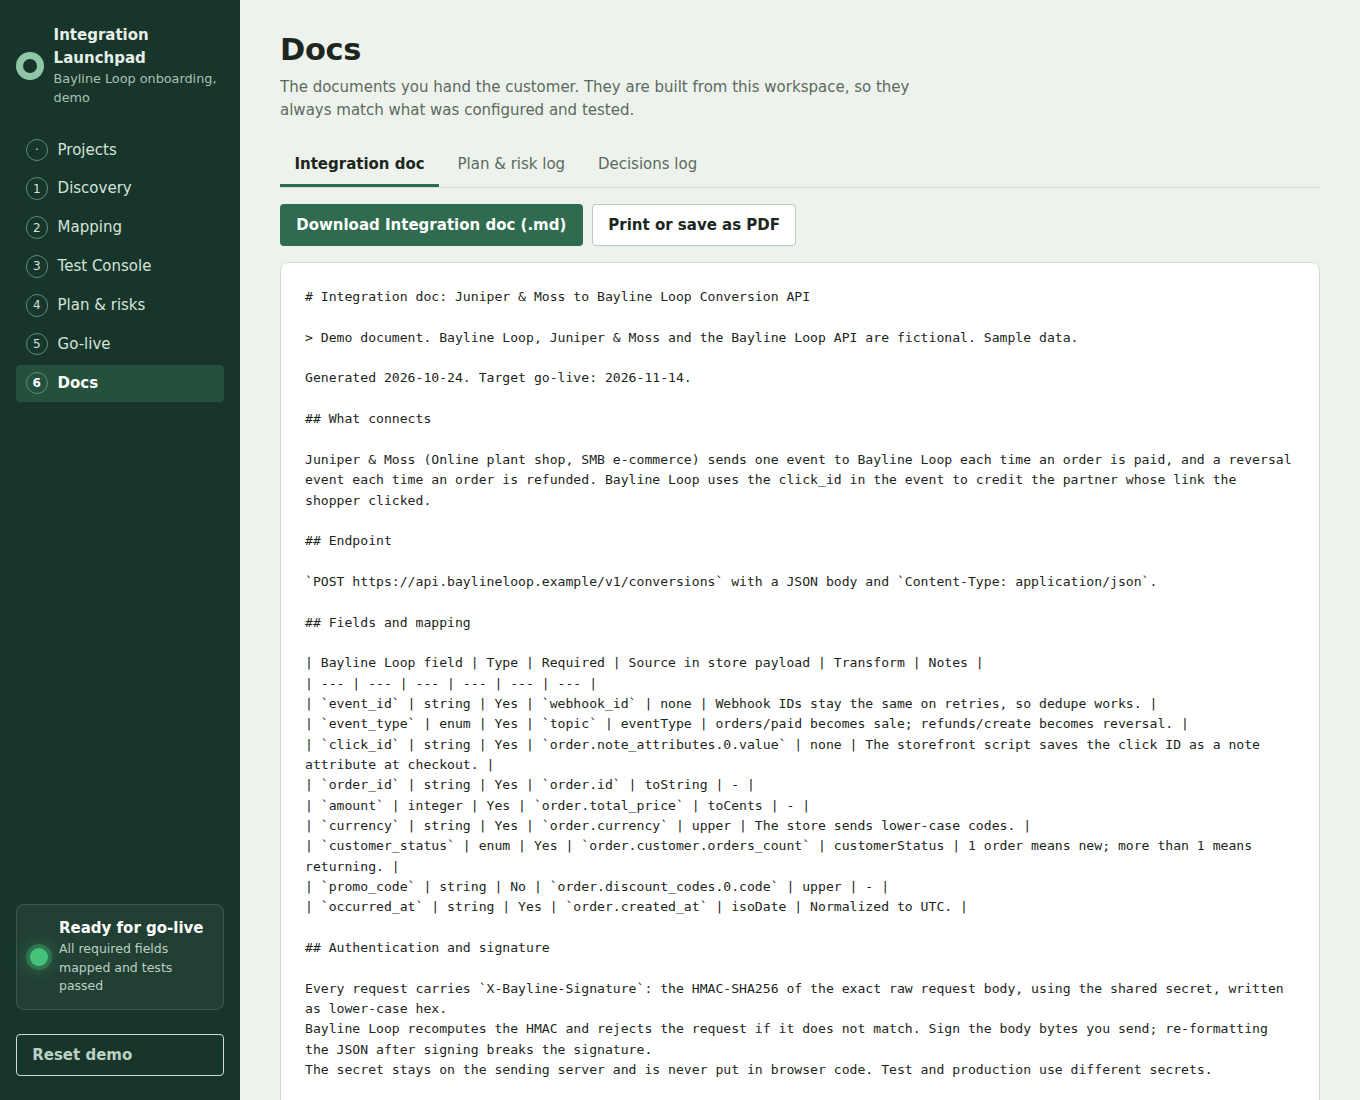
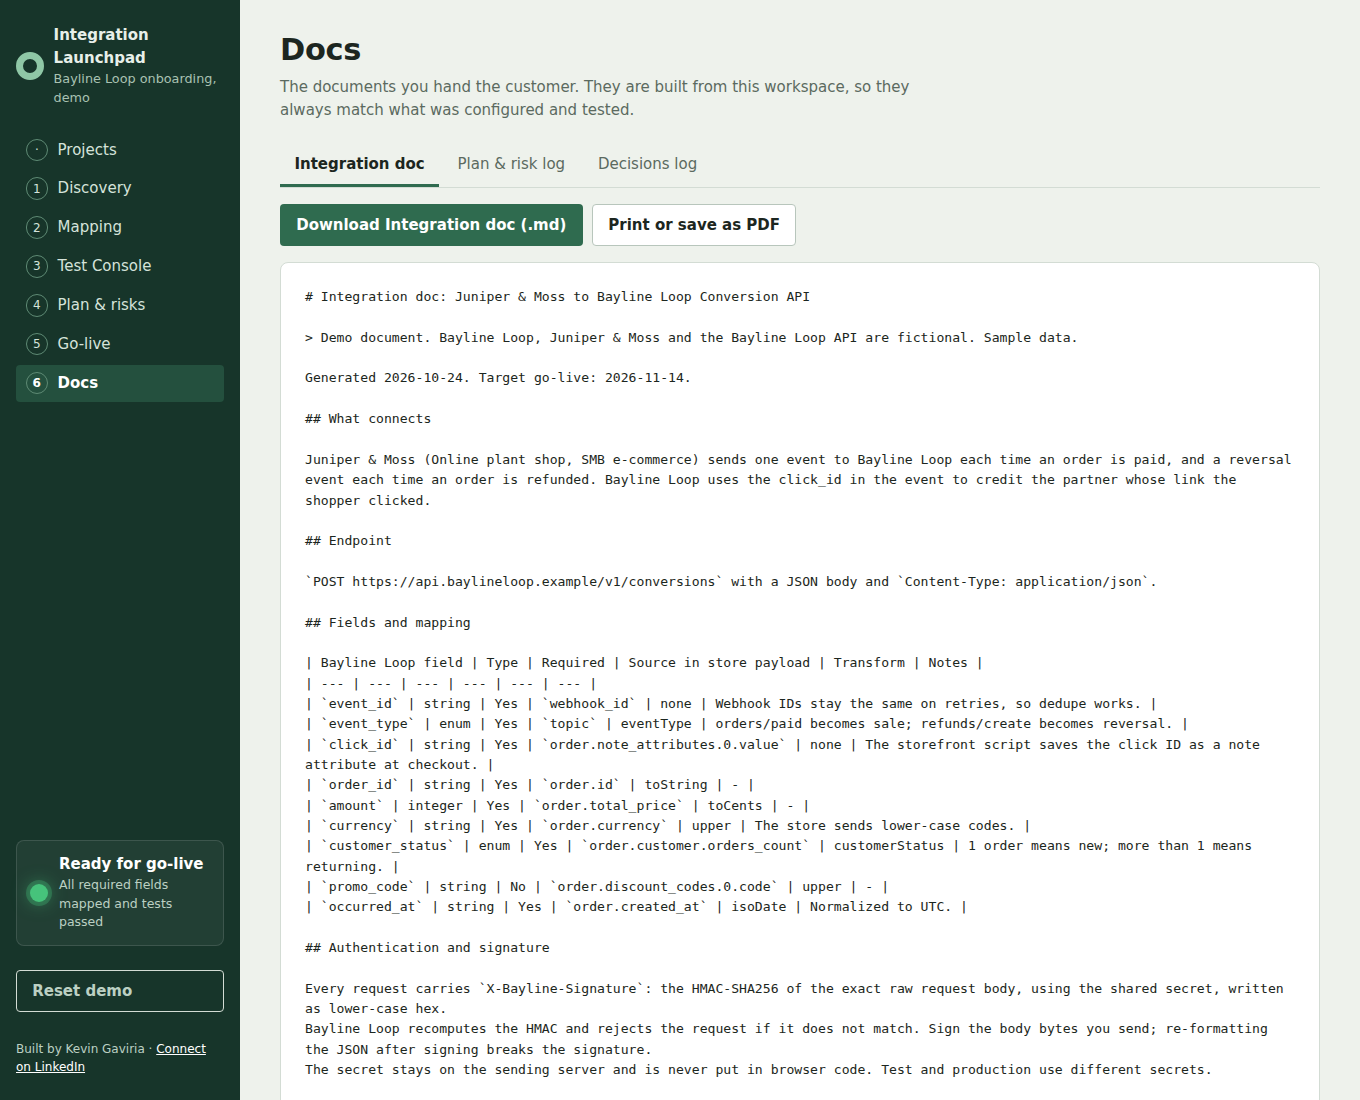
feat: add LinkedIn contact line to the sidebar

Changed region(s): [[0.0, 0.7727, 0.1544, 0.9891]]

diff --git a/src/components/Sidebar.jsx b/src/components/Sidebar.jsx
@@ -43,6 +43,13 @@ export default function Sidebar({ views, current, readiness, onReset }) {
       <button type="button" className="btn-quiet reset" onClick={onReset}>
         Reset demo
       </button>
+
+      <p className="credit">
+        Built by Kevin Gaviria ·{' '}
+        <a href="https://www.linkedin.com/in/kevin-gaviria" target="_blank" rel="noreferrer">
+          Connect on LinkedIn
+        </a>
+      </p>
     </aside>
   );
 }

diff --git a/src/styles.css b/src/styles.css
@@ -198,6 +198,15 @@ textarea.code {
   }
 }
 
+.credit {
+  margin: 0.25rem 0 0;
+  font-size: 0.75rem;
+  color: #bcd0c3;
+}
+.credit a {
+  color: #fff;
+}
+
 .reset {
   color: #bcd0c3;
   border-color: rgba(255, 255, 255, 0.2);
